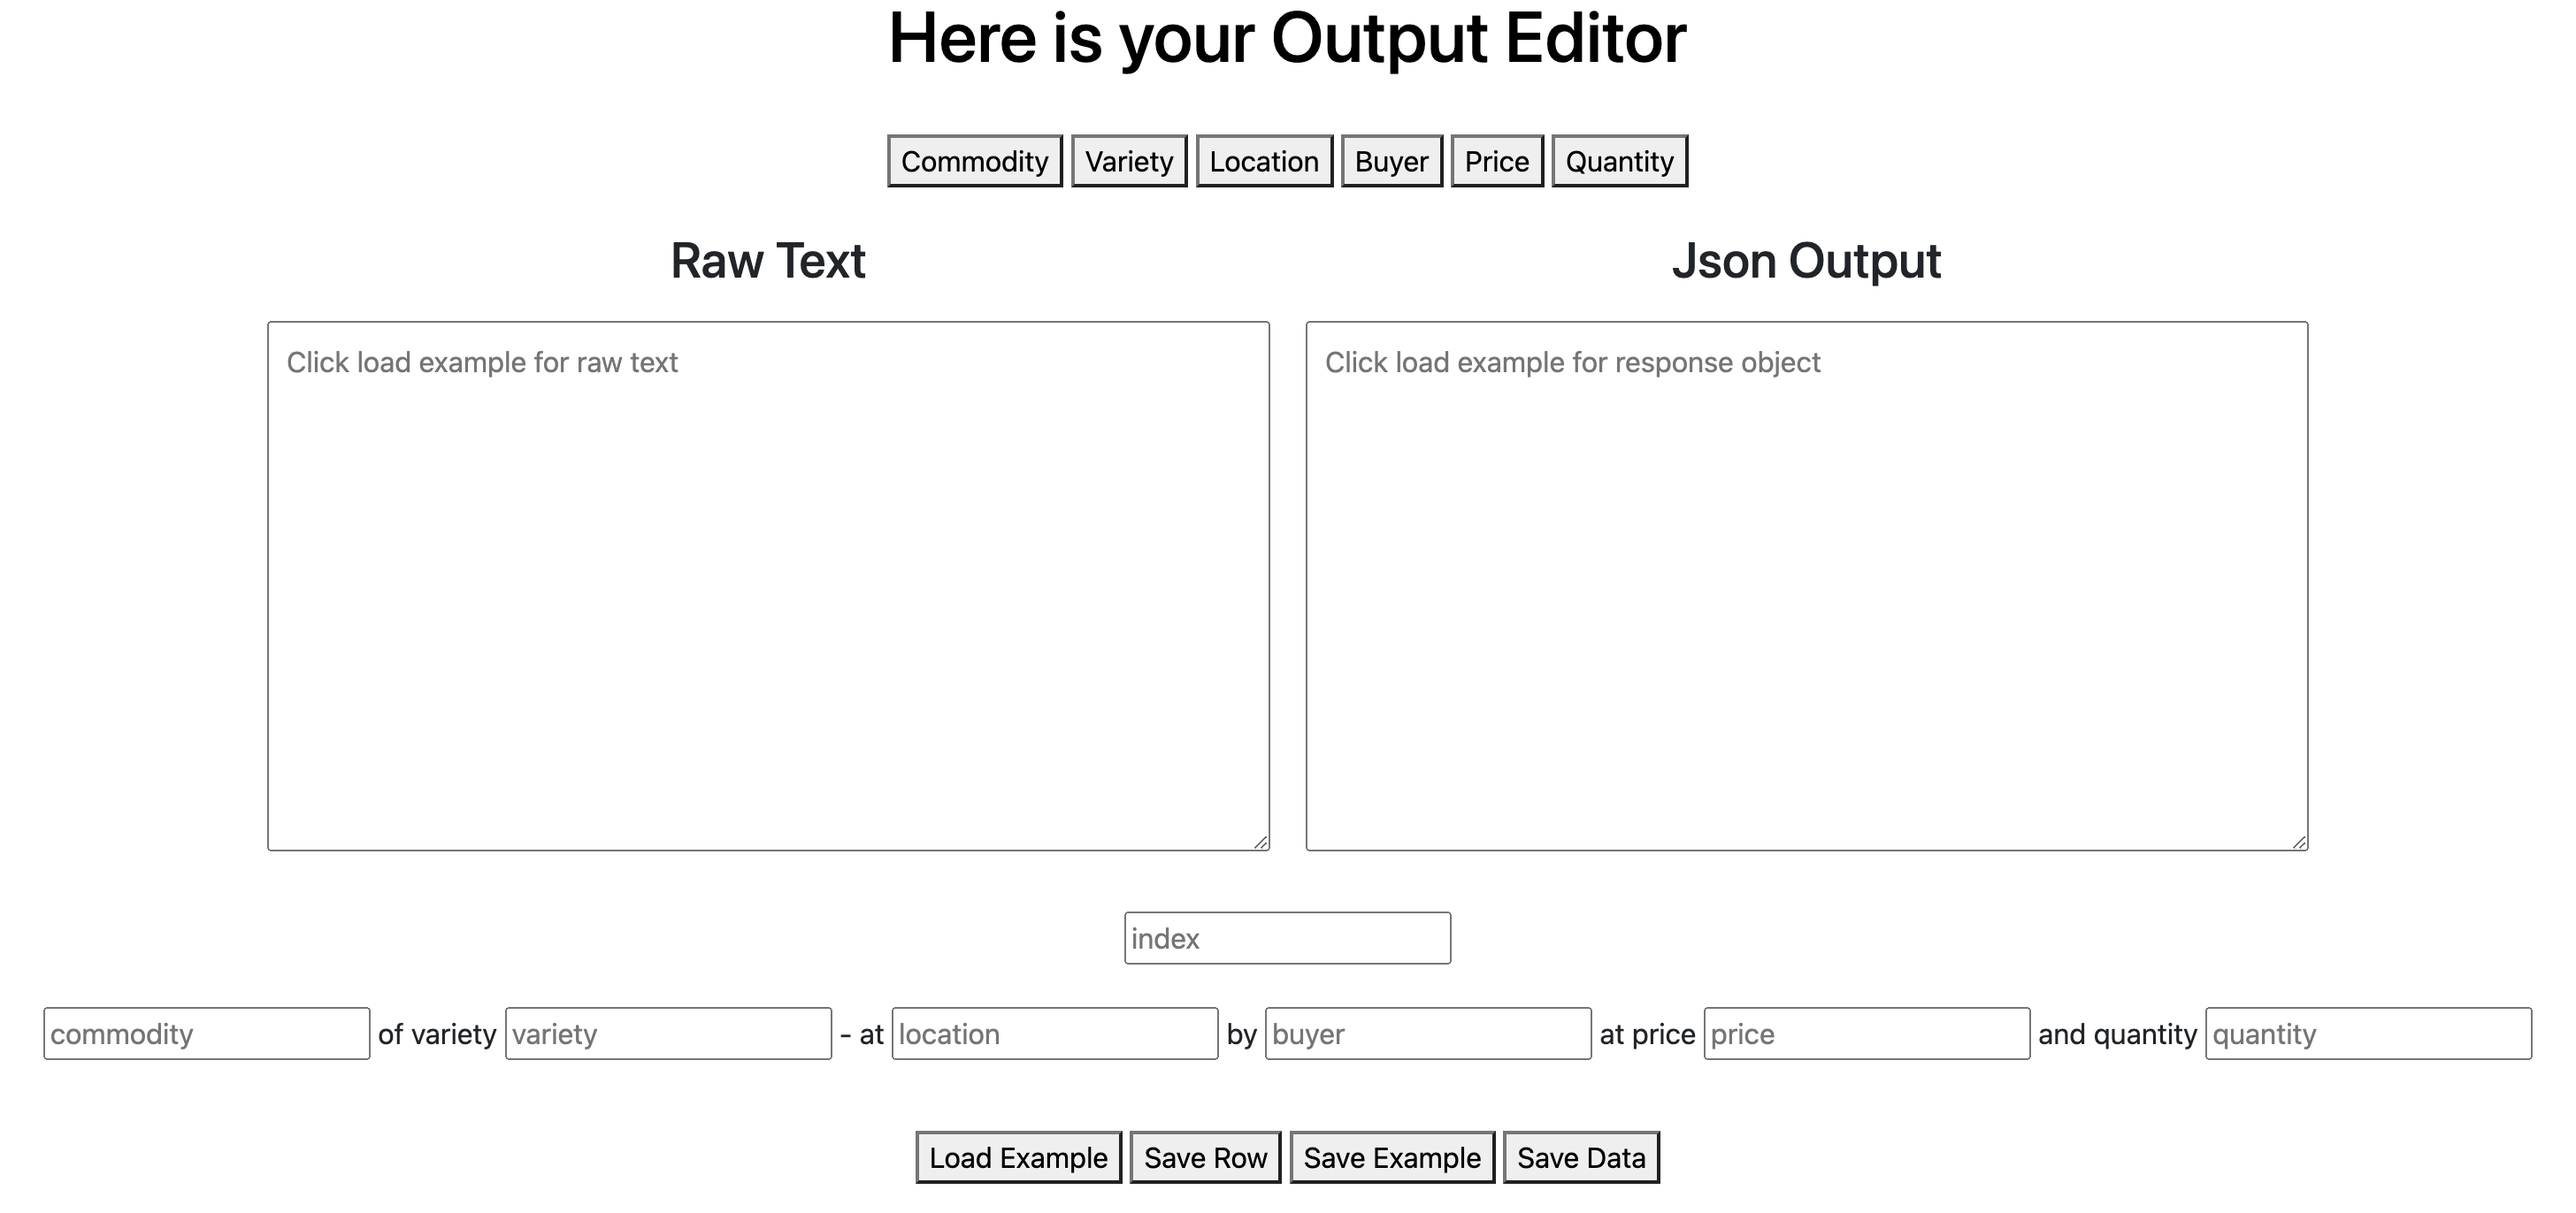
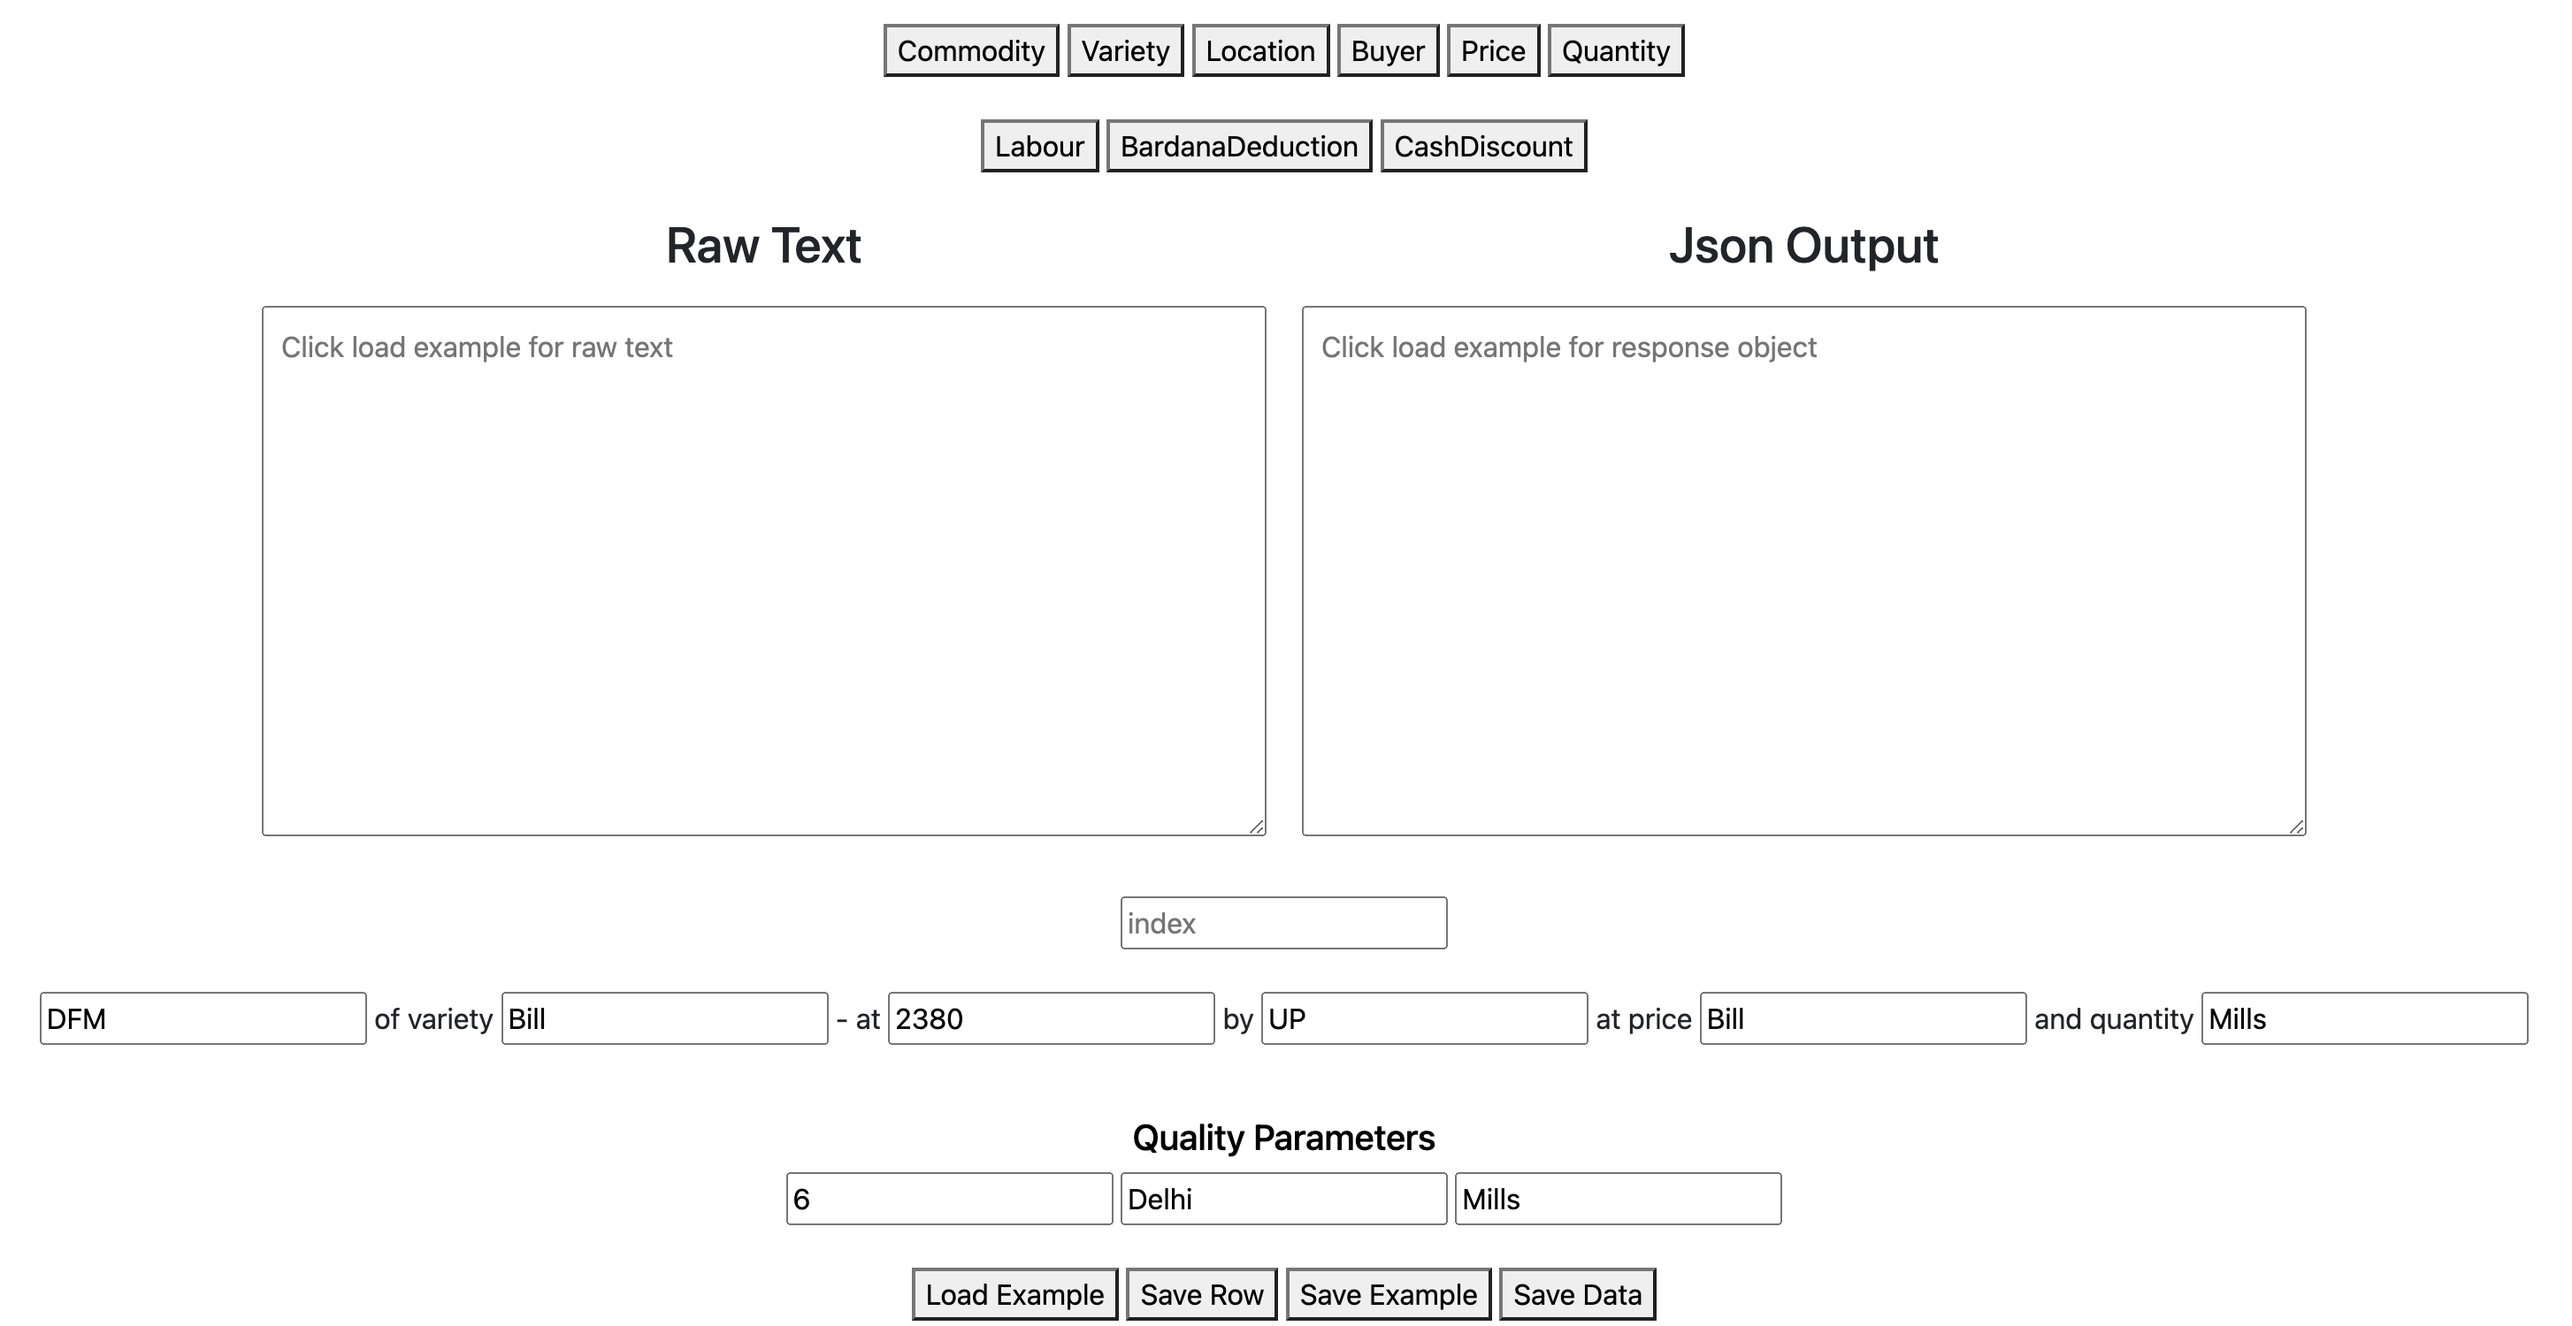
added quality parameters

diff --git a/templates/editor-3.html b/templates/editor-3.html
@@ -39,6 +39,12 @@
       <button id="priceb" onclick="highlightText('price')">Price</button>
       <button id="quantityb" onclick="highlightText('quantity')">Quantity</button>
     </div><br>
+    <div class="centered">
+<!--       change it later if the number or name of button changes -->
+      <button id="labourb" onclick="highlightText('labour')">Labour</button>
+      <button id="BardanaDeductionb" onclick="highlightText('BardanaDeduction')">BardanaDeduction</button>
+      <button id="CashDiscountb" onclick="highlightText('CashDiscount')">CashDiscount</button>
+    </div><br>
 
     <div style="display:flex; flex-direction:row; justify-content:center;">
         <div style="display:flex; flex-direction:column; align-items:center; margin-right:20px;">
@@ -59,6 +65,13 @@
     <div class="centered">
 <!--       change this if the name and the number of button changes -->
       <p><input type='text' id='commodity' placeholder="commodity"> of variety <input type='text' id='variety' placeholder="variety"> - at <input type='text' id='location' placeholder="location"> by <input type='text' id='buyer' placeholder="buyer"> at price <input type='text' id='price' placeholder="price"> and quantity <input type='text' id='quantity' placeholder="quantity">
+    </div><br>
+    <div class="centered">
+      <h5 style="color:black;">Quality Parameters</h5>
+<!--       change this if the name and the number of button changes -->
+      <input type='text' id='labour' placeholder="labour">
+      <input type='text' id='BardanaDeduction' placeholder="BardanaDeduction">
+      <input type='text' id='CashDiscount' placeholder="CashDiscount">
     </div><br>
   
     <div class="centered">
@@ -111,6 +124,9 @@
                 let inputValue4 = document.getElementById("buyer").value;
                 let inputValue5 = document.getElementById("price").value;
                 let inputValue6 = document.getElementById("quantity").value;
+                let inputValue7 = document.getElementById("labour").value;
+                let inputValue8 = document.getElementById("BardanaDeduction").value;
+                let inputValue9 = document.getElementById("CashDiscount").value;
           
                 // change this if the name and the number of text box/ button changes
                 let data = {
@@ -119,7 +135,10 @@
                       "location": inputValue3,
                       "buyer": inputValue4,
                       "price": inputValue5,
-                      "quantity": inputValue6
+                      "quantity": inputValue6,
+                      "labour": inputValue6,
+                      "BardanaDeduction": inputValue6,
+                      "CashDiscount": inputValue6
                     };
                 fetch('/save_row',{
                 method: 'POST',

diff --git a/constants.py b/constants.py
@@ -1,4 +1,4 @@
-api = "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"
+api = "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"
 temperature = 0
 max_tokens = 1000
 model_engine = "text-davinci-003"

diff --git a/README.md b/README.md
@@ -1,8 +1,6 @@
 # text_annotation_tool
 Text_annotation_tool
 
-## Index template
 ![Screenshot of index page](tool_preview/index.png)
 
-## Text standardisation tool template
 ![Screenshot of tool page](tool_preview/editor.png)
